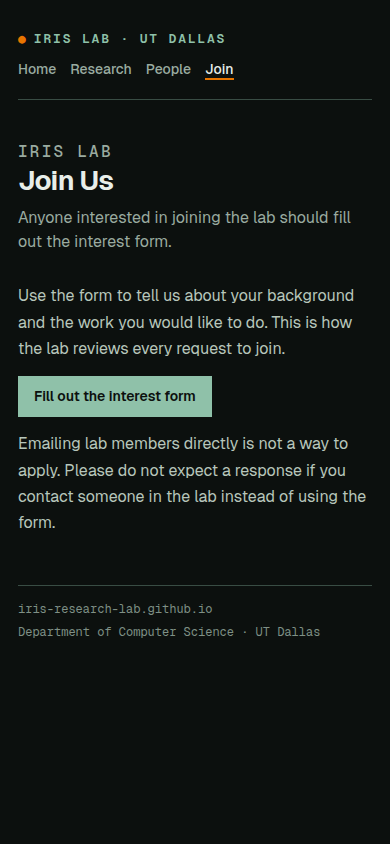
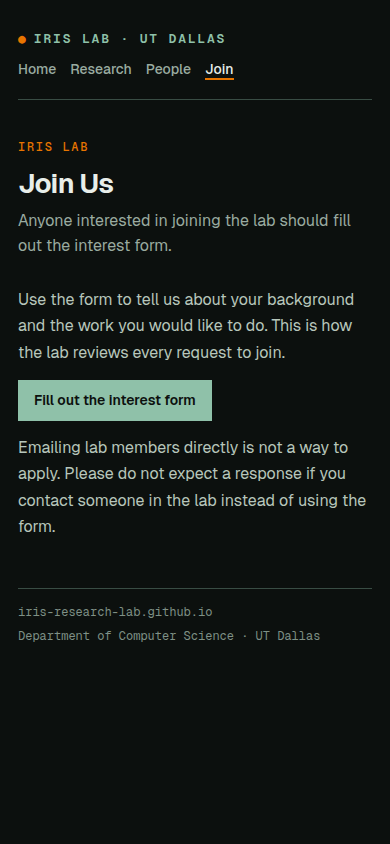
Fix page-header kickers, placeholder link names, and escaped author bolding.
Page headers keep the orange mono eyebrow. A website link with only hidden initials gets an accessible name. Lab names that contain apostrophes or ampersands still bold in author lists.

diff --git a/assets/js/common.js b/assets/js/common.js
@@ -60,7 +60,9 @@ export function photoHTML(person, cls = 'person-photo') {
     : `<span class="${cls} person-photo-placeholder" aria-hidden="true">${esc(initials(person.name))}</span>`;
   if (!site) return visual;
   // The website field is the photo's destination. Do not also print that URL as text.
-  return `<a class="person-photo-link" href="${esc(site)}">${visual}</a>`;
+  // A photo's alt names the link. Initials are aria-hidden, so that link needs its own name.
+  const label = person.photo ? '' : ` aria-label="${esc(`Website for ${person.name}`)}"`;
+  return `<a class="person-photo-link" href="${esc(site)}"${label}>${visual}</a>`;
 }
 
 export const ROLE_LABELS = {
@@ -103,7 +105,8 @@ export function labAuthorHTML(authors, people) {
   for (const person of people || []) {
     const name = String(person.name || '').replace(/\s*\(.*?\)/g, '').trim();
     if (!name) continue;
-    const re = new RegExp(`\\b${escapeRegExp(name)}\\b\\*?`, 'g');
+    // Match the escaped author string, so names with ', &, or < still bold.
+    const re = new RegExp(`\\b${escapeRegExp(esc(name))}\\b\\*?`, 'g');
     html = html.replace(re, match => `<strong>${match}</strong>`);
   }
   return html;

diff --git a/assets/css/style.css b/assets/css/style.css
@@ -253,6 +253,19 @@ h1 {
   margin: 0;
 }
 
+/* .page-head p is more specific than .kicker. Restate the eyebrow so it stays orange mono. */
+.page-head .kicker {
+  font-family: var(--font-mono);
+  font-size: 12px;
+  font-weight: 500;
+  line-height: 1.2;
+  letter-spacing: 0.14em;
+  text-transform: uppercase;
+  color: var(--iris-orange);
+  margin: 0 0 14px;
+  max-width: none;
+}
+
 #research-gate { margin-bottom: 28px; }
 
 .prose {

diff --git a/tests/test_markup.py b/tests/test_markup.py
@@ -1,0 +1,50 @@
+"""Regression checks for rendered publication authors and person photo links."""
+import json
+import subprocess
+import unittest
+from pathlib import Path
+
+ROOT = Path(__file__).resolve().parents[1]
+
+
+class MarkupTests(unittest.TestCase):
+    def render(self, expression):
+        script = (
+            'globalThis.location = { origin: "http://localhost" };\n'
+            'const mod = await import("./assets/js/common.js");\n'
+            f'const value = {expression};\n'
+            'process.stdout.write(JSON.stringify(value));\n'
+        )
+        proc = subprocess.run(
+            ["node", "--input-type=module", "-e", script],
+            cwd=ROOT, capture_output=True, text=True, check=False)
+        self.assertEqual(proc.returncode, 0, proc.stderr)
+        return json.loads(proc.stdout)
+
+    def test_lab_names_with_entities_are_bold(self):
+        html = self.render("""mod.labAuthorHTML(
+          "A. O'Neil* and Jean & Jo and Blaine Hoak",
+          [{name: "A. O'Neil"}, {name: "Jean & Jo"}, {name: "Blaine Hoak"}]
+        )""")
+        self.assertIn("<strong>A. O&#39;Neil*</strong>", html)
+        self.assertIn("<strong>Jean &amp; Jo</strong>", html)
+        self.assertIn("<strong>Blaine Hoak</strong>", html)
+        self.assertNotIn("<strong>A. O'Neil", html)
+
+    def test_initials_website_link_has_an_accessible_name(self):
+        html = self.render("""mod.photoHTML({
+          name: "Ada Lovelace",
+          links: { website: "https://example.com" }
+        })""")
+        self.assertIn('aria-hidden="true"', html)
+        self.assertIn('aria-label="Website for Ada Lovelace"', html)
+        self.assertIn('href="https://example.com"', html)
+
+    def test_photo_link_keeps_the_image_alt(self):
+        html = self.render("""mod.photoHTML({
+          name: "Ada Lovelace",
+          photo: "https://iris-research-lab.github.io/assets/images/people/ada.jpg",
+          links: { website: "https://example.com" }
+        })""")
+        self.assertIn('alt="Ada Lovelace"', html)
+        self.assertNotIn("aria-label", html)
